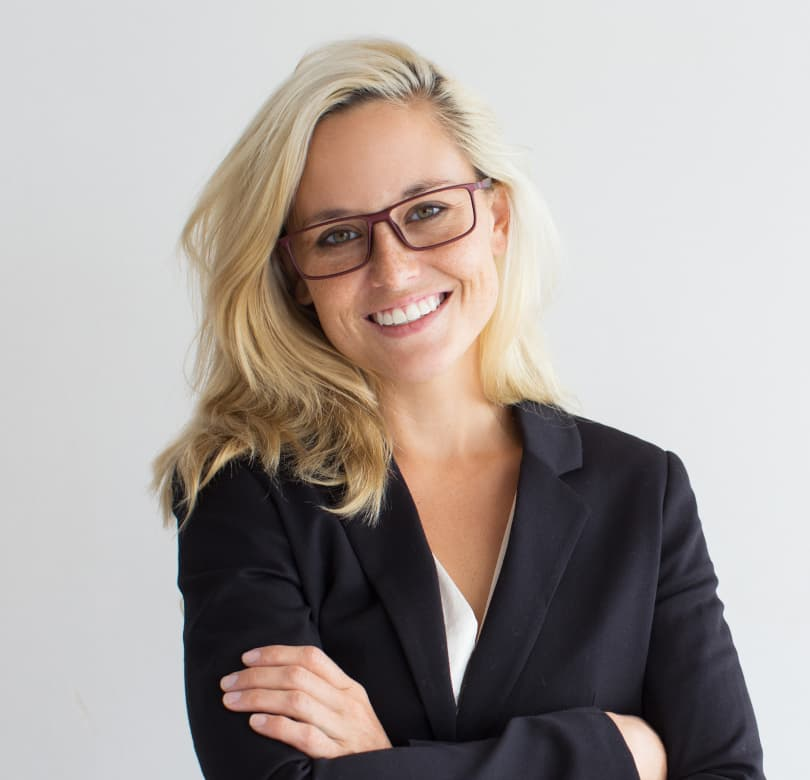
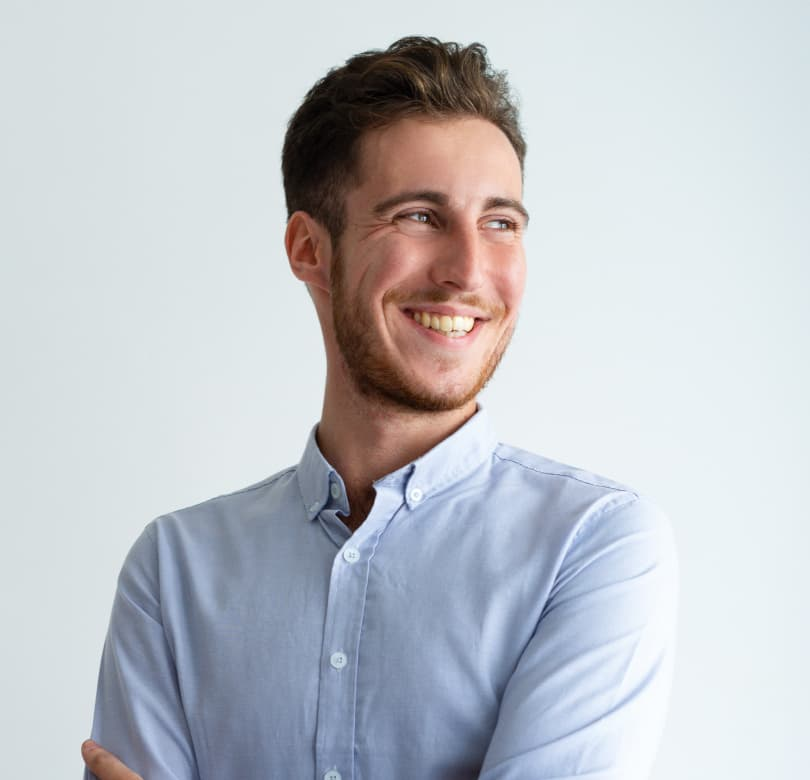
add footer

diff --git a/index.html b/index.html
@@ -1,79 +1,107 @@
 <!DOCTYPE html>
-<html lang="en">
-<head>
-    <meta charset="UTF-8">
-    <meta http-equiv="X-UA-Compatible" content="IE=edge">
-    <meta name="viewport" content="width=device-width, initial-scale=1.0">
+<html lang="uk">
+  <head>
+    <meta charset="UTF-8" />
+    <meta http-equiv="X-UA-Compatible" content="IE=edge" />
+    <meta name="viewport" content="width=device-width, initial-scale=1.0" />
     <title>Document</title>
-</head>
-<body>
+  </head>
+  <body>
     <!-- Header -->
     <header>
-        <!-- Logo -->
-        <h1>WebStudio</h1>
-        <!-- Navigation -->
-        <nav>
-            <ul>
-                <li><a href="">Студія</a></li>
-                <li><a href="">Портфоліо</a></li>
-                <li><a href="">Контакти</a></li>
-            </ul>
-        </nav>
-        <!-- Contact us -->
-        <a href="mailto:info@devstudio.com">info@devstudio.com</a>
-        <a href="tel:+380961111111">+38 096 111 11 11</a>
+      <!-- Logo -->
+      <!-- <h1>WebStudio</h1> -->
+      <a href="">WebStudio</a>
+      <!-- Navigation -->
+      <nav>
+        <ul>
+          <li><a href="">Студія</a></li>
+          <li><a href="">Портфоліо</a></li>
+          <li><a href="">Контакти</a></li>
+        </ul>
+      </nav>
+      <!-- Contact us -->
+      <a href="mailto:info@devstudio.com">info@devstudio.com</a>
+      <a href="tel:+380961111111">+38 096 111 11 11</a>
     </header>
     <!-- Main -->
     <main>
-        <!-- Hero -->
-        <section>
-            <h2>Ефективні рішення для вашого бізнесу</h2>
-            <a href="">Замовити послугу</a>
-        </section>
+      <!-- Hero -->
+      <section>
+        <h2>Ефективні рішення для вашого бізнесу</h2>
+        <button type="button">Замовити послугу</button>
+      </section>
 
-        <!-- Features -->
-        <section>
-            <ul>
-                <li>
-                    <h3>УВАГА ДО ДЕТАЛЕЙ</h3>
-                    <p>Ідейні міркування, і навіть початок повсякденної роботи з формування позиції.</p>
-                </li>
-                <li>
-                    <h3>ПУНКТУАЛЬНІСТЬ</h3>
-                    <p>Завдання організації, особливо рамки і місце навчання кадрів тягне у себе.</p>
-                </li>
-                <li>
-                    <h3>ПЛАНУВАННЯ</h3>
-                    <p>Так само консультація з широким активом значною мірою зумовлює.</p>
-                </li>
-                <li>
-                    <h3>СУЧАСНІ ТЕХНОЛОГІЇ</h3>
-                    <p>Значимість цих проблем настільки очевидна, що реалізація планових завдань.</p>
-                </li>
-            </ul>
-        </section>
-        <!-- About us -->
-        <section>
-            <h2>Чим ми займаємося</h2>
-            <ul>
-                <li><img src="./images/box 1.jpg" alt="Computers"></li>
-                <li><img src="./images/box 2.jpg" alt="Computers"></li>
-                <li><img src="./images/box 3.jpg" alt="Computers"></li>
-            </ul>
-        </section>
+      <!-- Features -->
+      <section>
+        <ul>
+          <li>
+            <h3>УВАГА ДО ДЕТАЛЕЙ</h3>
+            <p>
+              Ідейні міркування, і навіть початок повсякденної роботи з
+              формування позиції.
+            </p>
+          </li>
+          <li>
+            <h3>ПУНКТУАЛЬНІСТЬ</h3>
+            <p>
+              Завдання організації, особливо рамки і місце навчання кадрів тягне
+              у себе.
+            </p>
+          </li>
+          <li>
+            <h3>ПЛАНУВАННЯ</h3>
+            <p>
+              Так само консультація з широким активом значною мірою зумовлює.
+            </p>
+          </li>
+          <li>
+            <h3>СУЧАСНІ ТЕХНОЛОГІЇ</h3>
+            <p>
+              Значимість цих проблем настільки очевидна, що реалізація планових
+              завдань.
+            </p>
+          </li>
+        </ul>
+      </section>
+      <!-- About us -->
+      <section>
+        <h2>Чим ми займаємося</h2>
+        <ul>
+          <li><img src="./images/box-1.jpg" alt="Computers" width="370" /></li>
+          <li><img src="./images/box-2.jpg" alt="Computers" width="370"/></li>
+          <li><img src="./images/box-3.jpg" alt="Computers" width="370"/></li>
+        </ul>
+      </section>
 
-        <!-- Team -->
-        <section>
-
-        </section>
-
+      <!-- Team -->
+      <section>
+        <h2>Наша команда</h2>
+        <ul>
+          <li><img src="./images/team-1.jpg" alt="employee" width="270" /></li>
+          <p>Ігор Дем'яненко</p>
+          <p>Product Designer</p>
+          <li><img src="./images/team-2.jpg" alt="employee" width="270" /></li>
+          <p>Рєпіна</p>
+          <p>Frontend Developer</p>
+          <li><img src="./images/team-3.jpg" alt="employee" width="270" /></li>
+          <p>Микола Тарасов</p>
+          <p>Marketing</p>
+          <li><img src="./images/team-4.jpg" alt="employee" width="270" /></li>
+          <p>Михайло Єрмаков</p>
+          <p>UI Designer</p>
+        </ul>
+      </section>
     </main>
     <!-- Footer -->
     <footer>
+        <a href="">WebStudio</a>
+        <address>м. Київ, пр-т Лесі Українки, 26</address>
+        <ul>
+            <li><a href="mailto:info@devstudio.com">info@devstudio.com</a></li>
+            <li><a href="tel:+380961111111">+38 096 111 11 11"</a></li>
+        </ul>
 
     </footer>
-
-
-    
-</body>
+  </body>
 </html>
